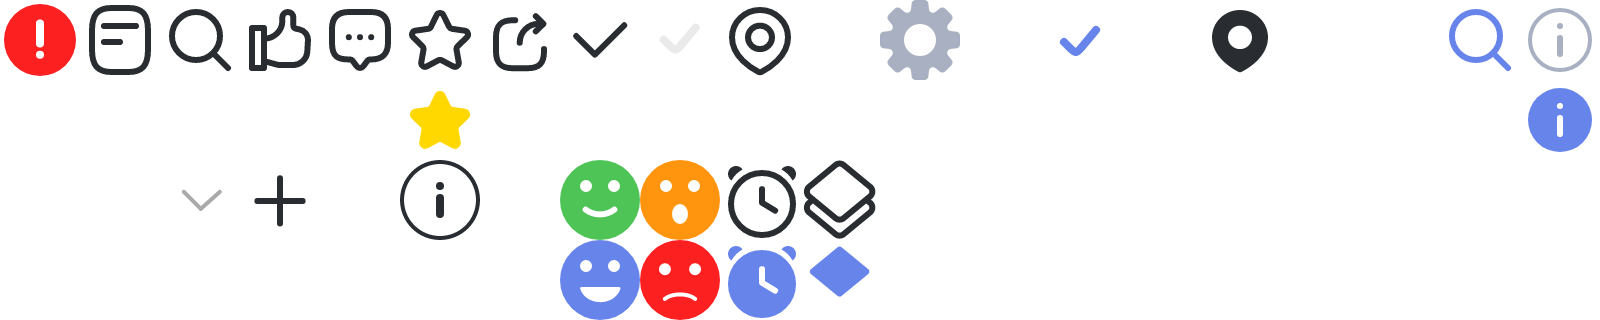
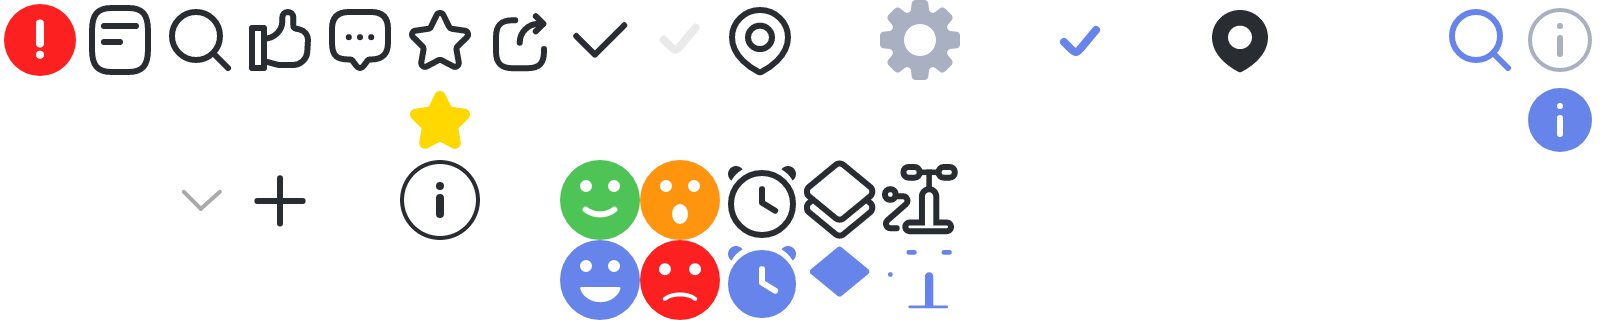
UI-SJN-30-007L 수정 - 공기주입기 마크 추가

Changed region(s): [[0.5312, 0.5, 0.625, 0.75], [0.5625, 0.8438, 0.5938, 0.9688], [0.5625, 0.7812, 0.5938, 0.8125]]

diff --git a/public/styles/gbMap.css b/public/styles/gbMap.css
@@ -9,6 +9,7 @@ body { --vh: 1px;}
 .map .mapArea.fixed .mapIcons .btnPin { top: 7rem;}
 .map .mapArea.subStyle .mapIcons .btnPin { top: 7.4rem;}
 .map .mapArea.subStyle .mapIcons .location { transform: translateY(calc(100% - 12rem));}
+.map .mapArea.subStyle .mapIcons .btnBikePin { top: 12.2rem;}
 
 .map .mapInfoLayer { display: flex; flex-direction: column; position: absolute; left: 0; right: 0; bottom: 0; z-index: 99; background-color: #fff; transform: translateY(100%); transition: all .3s ease-in-out;}
 .map .mapInfoLayer .mapIHead { padding: 0 2rem;}
@@ -74,7 +75,15 @@ body { --vh: 1px;}
 .map .mapIcons .btnPin.active { background-color: #6684EA;}
 .map .mapIcons .btnPin.active i { background-position-y: -6rem;}
 .map .mapIcons .btnBikePin { display: flex; align-items: center; justify-content: center; position: absolute; top: 13.2rem; right: 1.2rem; width: 4rem; height: 4rem; background-color: #fff; box-shadow: 0 0.3rem 0.6rem rgba(0, 0, 0, 0.1); border-radius: 50%;}
-.map .mapIcons .btnBikePin i { display: block; width: 2rem; height: 2rem; text-indent: -9999rem; background: url(../image/map/ico_bike.png) no-repeat center/cover;}
+.map .mapIcons .btnBikePin i { display: block; width: 2rem; height: 2rem; text-indent: -9999rem; background: url(../image/common/split_40.png) no-repeat -22rem -4rem/40rem 8rem;}
+.map .mapIcons .btnBikePin.active { background-color: #6684EA;}
+.map .mapIcons .btnBikePin.active i { background-position-y: -6rem;}
+.map .mapIcons .bikeAir { display: flex; align-items: center; justify-content: center; position: absolute; height: 3.6rem; padding: 0 0.8rem 0 0.6rem; border: 0.1rem solid #A9B0C1; background-color: #fff; border-radius: 1.8rem;}
+.map .mapIcons .bikeAir i { display: inline-block; width: 2.4rem; height: 2.4rem; margin-right: 0.4rem; background: #32BBED url(../image/common/split_48.png) no-repeat -16.8rem -9.6rem/48rem 19.2rem; border-radius: 50%;}
+.map .mapIcons .bikeAir span { font-size: 1.3rem; color: #333;}
+.map .mapIcons .bikeAir::before { content: ''; position: absolute; left: 50%; bottom: -2.3rem; width: 0; height: 0; margin-left: -0.6rem; border-left: 0.6rem solid transparent; border-right: 0.6rem solid transparent; border-top: 1.1rem solid #A9B0C1; border-bottom: 1.1rem solid transparent;}
+.map .mapIcons .bikeAir::after { content: ''; position: absolute; left: 50%; bottom: -2.2rem; width: 0; height: 0; margin-left: -0.6rem; border-left: 0.6rem solid transparent; border-right: 0.6rem solid transparent; border-top: 1.1rem solid #fff; border-bottom: 1.1rem solid transparent;}
+
 .map .mapIcons .markerMy { display: flex; align-items: center; justify-content: center; position: absolute; z-index: 20; width: 8rem; height: 8rem; background-color: rgba(17, 17, 17, 0.15); border-radius: 50%; transform: translateX(-50%);}
 .map .mapIcons .markerMy div { display: flex; align-items: center; justify-content: center; width: 2rem; height: 2rem; background-color: #fff; border-radius: 50%;}
 .map .mapIcons .markerMy div span { display: block; width: 1.6rem; height: 1.6rem; background-color: #FD2020; border-radius: 50%;}
@@ -395,7 +404,7 @@ span.M { background-color: #FD2020;}
 .map .mapInfoLayer .pTransportation li .infomation .cBlue { color: #32BBED;}
 .map .mapInfoLayer .pTransportation li .infomation .cGray { color: #777;}
 .map .mapInfoLayer .pTransportation li .infomation .cOrange { color: #FD2020;}
-.map .mapArea.subStyle .mapIcons .btnBikePin { top: 12.2rem;}
+
 
 /* UI-SJN-32-010L */
 .map .mapInfoLayer .pTransportation li .etc.mt { margin-top: 0.6rem;}

diff --git a/html/map/UI-SJN-30-007L.html b/html/map/UI-SJN-30-007L.html
@@ -21,7 +21,7 @@
 					<!-- 기타 아이콘들 -->
 					<div class="mapIcons">
 						<button type="button" class="btnPin"><i>핀</i></button>
-						<button type="button" class="btnBikePin"><i>공기주입기</i></button>
+						<button type="button" class="btnBikePin"><i>공기주입기</i></button> <!-- 활성화 시 active 클래스 추가 -->
 						<button type="button" class="btnMapSearch"><i></i>현 지도에서 검색</button>
 
 						<!-- 마커 -->
@@ -36,8 +36,14 @@
 							<button type="button" class="commIco24 bikeIco" style="left: 15rem; top: 15rem;" onclick="layerPopup.open('layerBikeCharge');"><i class="split24">해밀마을세종마스터힐스 개인이동수단</i></button>
 							<button type="button" class="commIco24 bikeIco" style="left: 20rem; top: 15rem;" onclick="layerPopup.open('layerBikeCharge');"><i class="split24">해밀마을세종마스터힐스 개인이동수단</i></button>
 							<button type="button" class="commIco24 bikeIco" style="left: 25rem; top: 15rem;" onclick="layerPopup.open('layerBikeCharge');"><i class="split24">해밀마을세종마스터힐스 개인이동수단</i></button>
+							
+							<div class="bikeAir" style="left: 10rem; top: 25rem;">
+								<i></i><span>호수공원(어진동638)</span>
+							</div>
 						</div>
 						<!-- //개인이동수단 -->
+
+						
 
 						<div class="btnView">
 							<button type="button" class="mapView" onclick="mapInfo.active('close');"><i></i>지도보기</button>

diff --git a/README.md b/README.md
@@ -4,6 +4,7 @@
 
 
 ### 02-10
+- UI-SJN-30-007L 수정 - 공기주입기 마크 추가
 - UI-SJN-40-004L 수정 - 선택된 버스 배경 움직임 추가
 
 ### 02-09
